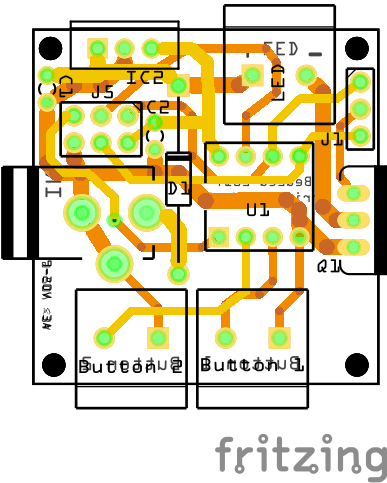
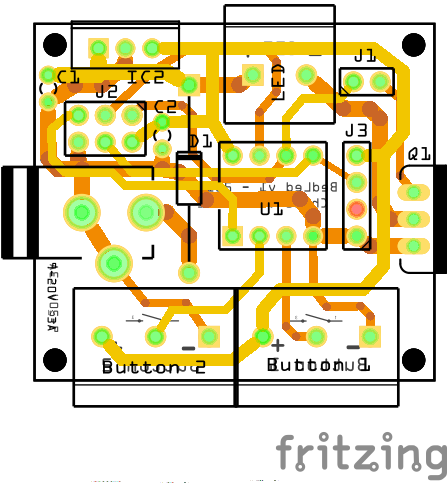
Update png exports and README

diff --git a/README.md b/README.md
@@ -6,23 +6,29 @@
 ![PCB](schema/BedLed_pcb.png)
 
 ## Parts
-- R1 - 10MΩ
+- D1 - Skottky diode (20V, 3A)
 - C1 - 16V, 0.33µF
 - C2 - 5V, 0.1µF
+- IC2 - LM7805
 - Q1 - IRFZ44N
 - U1 - ATtiny85
-- J1 - 3 pin haeder with jumper
-- J2 - 6 pin header (optional)
-
-J1 - Jumper options:
-- 1-2: Pin 6 (PB1) connected to Q1 gate
+- J1 - 2 pin haeder with jumper
+- J2 - 2x3 pin ICSP header (optional)
+- Power supply socket
+- Terminals for button and LED connections
+- Buttons
+Optional:
+- RF expansion (e.g. 433 MHz receiver)
+- Reset button (with 2-pin connector)
 
 Connector pins:
 - J1, 1 - Pin 6 (PB1, MISO)
 - J1, 2 - Q1 gate
-- J1, 3 - Pin 5 (PB0, MOSI)
 
-J2 - ISP
+J1 - Jumper options:
+- 1-2: Pin 6 (PB1) connected to Q1 gate
+
+J2 - ICSP
 - 1: MISO
 - 2: VCC
 - 3: SCK
@@ -33,10 +39,20 @@ J2 - ISP
 J3 - RF expansion
 - 1: GND
 - 2: NC
-- 3: Dat
+- 3: Data
 - 4: VCC
 
+A serial connection with status/debug info (at 9600 baud) is available on J2-3 (SCK) which is connected to U1-PB2.
+
 ## Flashing
-To prevent interruptions during flashing:
+To prevent interruptions and blinking the LED strip during flashing:
 - Disconnect the MOSFET by removing the jumper on J1 (freeing pin 6 - MISO)
 - Remove the RF expansion (freeing pin 5 - MOSI)
+
+## RF (KlikAaanKlikUit) learning mode
+To enter the learning mode, hold one of the buttons and press reset. The light will blink twice.
+The chip will store 5 addresses.
+Pressing the "on" button will add the address, if it's not already added. The light will blink to confirm the action.
+Pressing the "off" button will remove the address, if it's a known address. The light will blink to confirm the action.
+To earase all learned addresses from memory. Press and hold a button, then reset and keep holding the button until the light blinks 5 times (about 5 seconds). Release the button. The regular learning mode (with an empty memory) is now initiated.
+The exit learning mode, press a button once.
